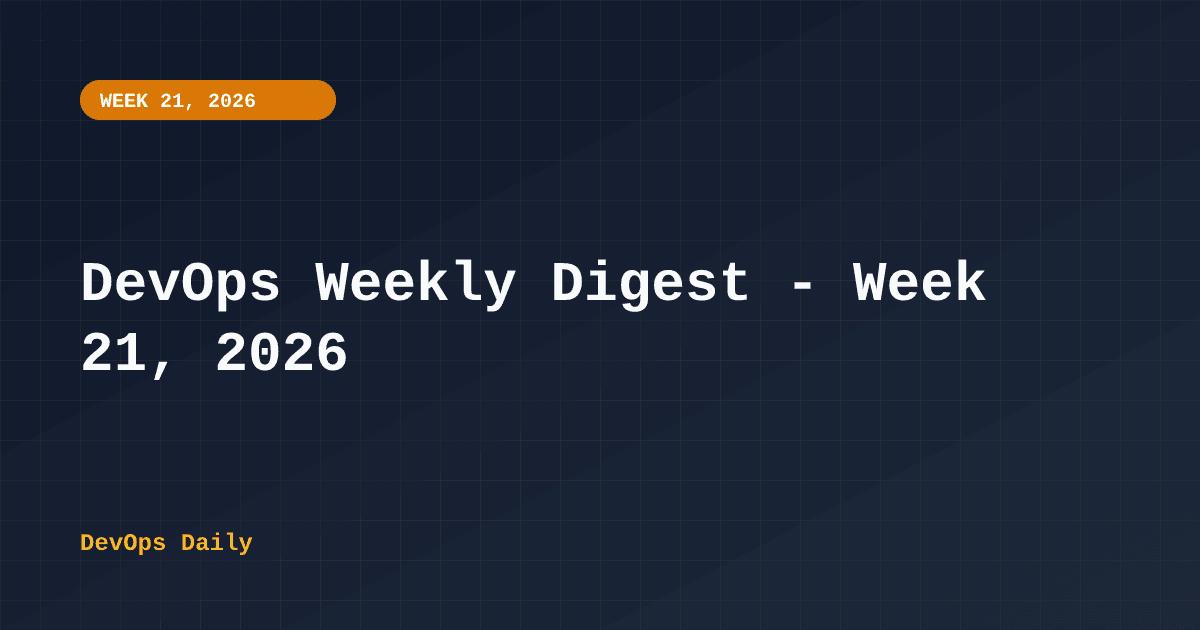
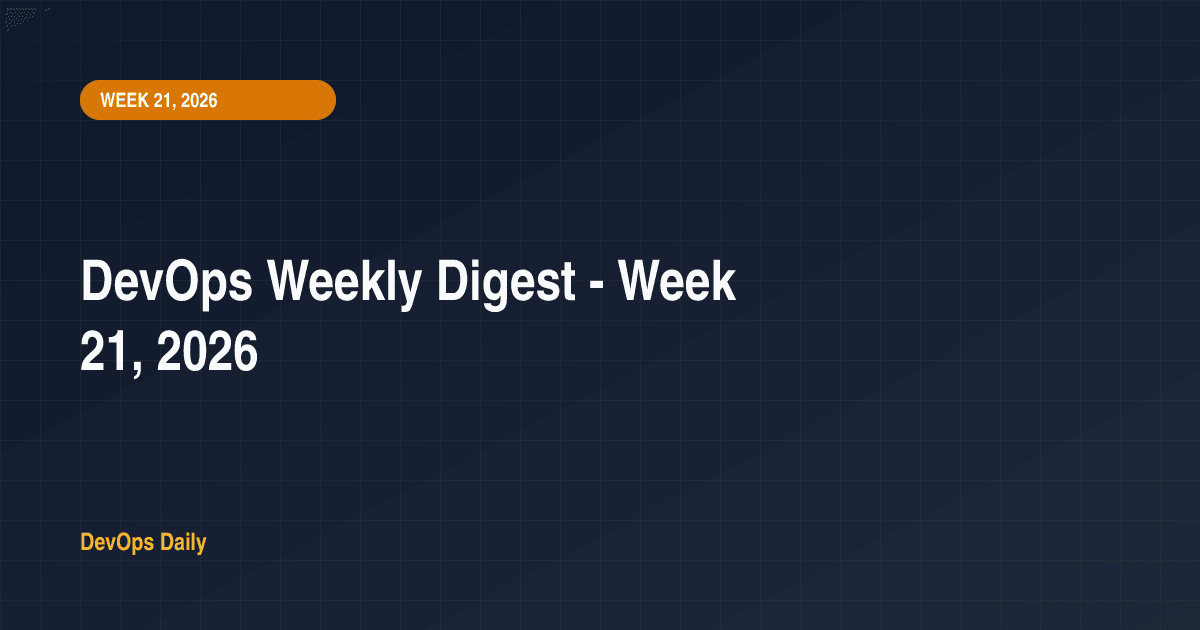
feat: add blog post - How to Build an Effective On-Call Rotation and Escalation Policy (#1297)

Pull request: feat: add blog post - How to Build an Effective On-Call Rotation and Escalation Policy
Auto-generated blog post for topic: **How to Build an Effective On-Call Rotation and Escalation Policy**

Category: Incident Management
Tags: incident-management, on-call, escalation, alert-fatigue

Created by content-pipeline.

diff --git a/content/posts/on-call-rotation-escalation-policy-guide.md b/content/posts/on-call-rotation-escalation-policy-guide.md
@@ -1,0 +1,295 @@
+---
+title: 'How to Build an Effective On-Call Rotation and Escalation Policy'
+excerpt: 'Your phone buzzed at 3:14 AM for a disk warning that auto-resolved by 3:16. Nobody fixes the alert. The next person on rotation hates their life. Here is how to build on-call schedules, escalation policies, and alert rules that respect your engineers.'
+category:
+  name: 'DevOps'
+  slug: 'devops'
+date: '2026-05-25'
+publishedAt: '2026-05-25T09:00:00Z'
+updatedAt: '2026-05-25T09:00:00Z'
+readingTime: '11 min read'
+author:
+  name: 'DevOps Daily Team'
+  slug: 'devops-daily-team'
+featured: false
+tags:
+  - incident-management
+  - on-call
+  - escalation
+  - alert-fatigue
+  - sre
+  - devops
+  - observability
+---
+
+Your phone buzzes at 3:14 AM. It is a `DiskUsageHigh` warning on a staging node. By the time you grab your laptop, it has auto-resolved. You go back to sleep, except now you are wide awake at 4 AM staring at the ceiling, knowing the next page might be a real incident. On Monday, you mention it in standup. Someone says "yeah, that one fires all the time." Nobody opens a ticket. Next week the next person on rotation gets the same page.
+
+This is how on-call rotations rot. Not from one bad incident, but from a slow leak of trust between engineers and the alerts they answer to. Building an on-call rotation that does not burn people out is a design problem, not a tooling problem. The tooling matters, but only after you decide what should wake a human up and what should not.
+
+## TLDR
+
+A good on-call rotation has three pieces: a schedule that is fair and predictable, an escalation policy that catches dropped pages without spamming everyone, and an alert pipeline that only pages humans for things humans can act on right now. Get all three right and on-call becomes tolerable. Get any one wrong and people will quit.
+
+## Prerequisites
+
+- An alerting backend like Alertmanager, PagerDuty, Opsgenie, or Grafana OnCall
+- Prometheus or another metrics source that fires alerts
+- A team of at least four engineers (anything smaller and you are running a hero rotation, which is a separate problem)
+- Buy-in from your manager that on-call work is real work, not a side task
+
+## Step 1: Design the Schedule Before You Pick the Tool
+
+Most teams jump straight into PagerDuty and start clicking. Stop. Decide the shape of the rotation first.
+
+The three common shapes:
+
+- **Weekly rotation**: one engineer carries the pager for 7 days. Simple, but brutal if your service is noisy. Good for low-volume rotations.
+- **Follow-the-sun**: hand off every 8 to 12 hours across timezones. Best if you have engineers in at least two regions. Nobody gets paged at 3 AM.
+- **Split primary/secondary**: a primary handles the page, a secondary backs them up if the primary misses it. Adds redundancy without doubling the load.
+
+For most teams between 5 and 15 engineers in one timezone, the right answer is a weekly rotation with a secondary on a separate, offset schedule. Here is what that looks like as Terraform with the PagerDuty provider:
+
+```hcl
+resource "pagerduty_schedule" "primary_oncall" {
+  name      = "Platform Primary On-Call"
+  time_zone = "Europe/London"
+
+  layer {
+    name                         = "Weekly Rotation"
+    start                        = "2026-06-01T09:00:00Z"
+    rotation_virtual_start       = "2026-06-01T09:00:00Z"
+    rotation_turn_length_seconds = 604800  # 7 days
+    users = [
+      pagerduty_user.alice.id,
+      pagerduty_user.bob.id,
+      pagerduty_user.carol.id,
+      pagerduty_user.dave.id,
+      pagerduty_user.eve.id,
+    ]
+  }
+}
+
+resource "pagerduty_schedule" "secondary_oncall" {
+  name      = "Platform Secondary On-Call"
+  time_zone = "Europe/London"
+
+  layer {
+    name                         = "Offset Weekly Rotation"
+    start                        = "2026-06-04T09:00:00Z"  # offset 3 days
+    rotation_virtual_start       = "2026-06-04T09:00:00Z"
+    rotation_turn_length_seconds = 604800
+    users = [
+      pagerduty_user.alice.id,
+      pagerduty_user.bob.id,
+      pagerduty_user.carol.id,
+      pagerduty_user.dave.id,
+      pagerduty_user.eve.id,
+    ]
+  }
+}
+```
+
+The 3-day offset means the same person is never primary and secondary at the same time. It also means everyone gets a clear "I am on" week and a separate "I am the backup" week.
+
+A few rules that prevent rotations from collapsing:
+
+- **Publish the schedule at least 8 weeks ahead.** People plan weddings, holidays, school pickups. Surprise shifts kill morale faster than the actual pages do.
+- **Let people swap shifts without asking permission.** Build a Slack channel, not a request queue. The only rule should be "find your own replacement before swapping."
+- **Pay for it, or give time off in lieu.** Unpaid on-call is theft. If you cannot pay, give the on-call engineer a half-day off after a busy week.
+
+## Step 2: Build an Escalation Policy That Actually Catches Drops
+
+A page that nobody answers is worse than no page at all, because the incident keeps burning while you have a false sense of "someone is on it." Your escalation policy is the safety net.
+
+The classic pattern: primary gets paged, has 5 minutes to acknowledge, then secondary, then a manager or incident commander.
+
+```text
++---------------------+
+|  Alert fires        |
++----------+----------+
+           |
+           v
++----------+----------+        +---------------------+
+| Primary on-call     | -----> | ACK within 5 min?   |
++----------+----------+        +----------+----------+
+                                          | No
+                                          v
+                              +-----------+-----------+
+                              | Secondary on-call     |
+                              +-----------+-----------+
+                                          |
+                                          | No ACK in 10 min
+                                          v
+                              +-----------+-----------+
+                              | Incident Commander    |
+                              | or Engineering Manager|
+                              +-----------------------+
+```
+
+Here is the same policy in Terraform:
+
+```hcl
+resource "pagerduty_escalation_policy" "platform" {
+  name      = "Platform Escalation"
+  num_loops = 2
+
+  rule {
+    escalation_delay_in_minutes = 5
+    target {
+      type = "schedule_reference"
+      id   = pagerduty_schedule.primary_oncall.id
+    }
+  }
+
+  rule {
+    escalation_delay_in_minutes = 10
+    target {
+      type = "schedule_reference"
+      id   = pagerduty_schedule.secondary_oncall.id
+    }
+  }
+
+  rule {
+    escalation_delay_in_minutes = 15
+    target {
+      type = "user_reference"
+      id   = pagerduty_user.engineering_manager.id
+    }
+  }
+}
+```
+
+Three things worth calling out:
+
+1. **5 minutes to acknowledge is the sweet spot.** Less than that and you escalate before someone has unlocked their phone. More than that and a real outage burns for too long before help arrives.
+2. **`num_loops = 2` means the policy retries.** If the manager also misses it, it goes back to the primary. Without this, a sleeping team can drop a page entirely.
+3. **The manager is a fallback, not the default.** If your manager is getting paged regularly, your team is too small or your alerts are too noisy. Probably both.
+
+## Step 3: Cut Alert Noise Ruthlessly
+
+This is where most on-call rotations live or die. The right number of pages per week per engineer is roughly **0 to 2**, and only one of those should happen outside business hours. If you are above that, you have a noise problem and no escalation policy will save you.
+
+The fix is severity tiers. Not every alert deserves a phone call.
+
+| Severity | Action               | Example                                              |
+|----------|----------------------|------------------------------------------------------|
+| `page`   | Wake someone up      | API error rate above 5% for 5 minutes                |
+| `ticket` | File a ticket        | Disk at 80%, certificate expires in 14 days          |
+| `info`   | Log only, no action  | Deploy started, cache warmed                         |
+
+Encode this in your Prometheus alert rules. Example:
+
+```yaml
+groups:
+- name: api-availability
+  interval: 30s
+  rules:
+  - alert: APIHighErrorRate
+    expr: |
+      (
+        sum(rate(http_requests_total{job="api",status=~"5.."}[5m]))
+        /
+        sum(rate(http_requests_total{job="api"}[5m]))
+      ) > 0.05
+    for: 5m
+    labels:
+      severity: page
+      team: platform
+    annotations:
+      summary: "API 5xx error rate above 5% for 5 minutes"
+      runbook: "https://runbooks.example.com/api-high-error-rate"
+      dashboard: "https://grafana.example.com/d/api-overview"
+
+  - alert: DiskSpaceWarning
+    expr: |
+      (1 - (node_filesystem_avail_bytes{mountpoint="/"} / node_filesystem_size_bytes{mountpoint="/"})) > 0.80
+    for: 30m
+    labels:
+      severity: ticket
+      team: platform
+    annotations:
+      summary: "Disk usage above 80% on {{ $labels.instance }}"
+      runbook: "https://runbooks.example.com/disk-space"
+```
+
+Then route on severity in Alertmanager. `page` goes to PagerDuty, `ticket` opens a Jira issue, `info` posts to a Slack channel nobody is required to read:
+
+```yaml
+route:
+  receiver: slack-info
+  group_by: ['alertname', 'cluster']
+  routes:
+  - matchers:
+    - severity="page"
+    receiver: pagerduty-platform
+    group_wait: 30s
+    group_interval: 5m
+    repeat_interval: 4h
+
+  - matchers:
+    - severity="ticket"
+    receiver: jira-platform
+    group_wait: 5m
+
+  - matchers:
+    - severity="info"
+    receiver: slack-info
+
+receivers:
+- name: pagerduty-platform
+  pagerduty_configs:
+  - service_key: <REDACTED>
+    description: '{{ .CommonAnnotations.summary }}'
+    details:
+      runbook: '{{ .CommonAnnotations.runbook }}'
+      dashboard: '{{ .CommonAnnotations.dashboard }}'
+
+- name: jira-platform
+  webhook_configs:
+  - url: 'https://jira-bot.example.com/create'
+
+- name: slack-info
+  slack_configs:
+  - api_url: 'https://hooks.slack.com/services/...'
+    channel: '#alerts-info'
+```
+
+Two non-negotiable rules for any rule labelled `severity: page`:
+
+1. **It must link to a runbook.** Not a wiki home page. A document with the actual commands to run. If you cannot write a runbook, the alert is not actionable enough to page on.
+2. **It must include a `for:` clause of at least 2 minutes.** This prevents flapping. The disk that fills to 81% for 30 seconds because of a log rotation should not wake you.
+
+## Step 4: Review Pages Every Week
+
+The cheapest reliability work you can do is a weekly on-call review. 30 minutes, every Monday, with the off-going engineer talking through every page they got.
+
+A simple template:
+
+```text
+On-Call Handover: 2026-05-18 to 2026-05-25
+Engineer: Alice
+
+Pages received: 4
+  - Mon 02:14  APIHighErrorRate         REAL    fixed by rolling deploy
+  - Tue 09:02  DiskSpaceWarning         NOISE   threshold too low, raised to 90%
+  - Wed 04:33  PodCrashLoopBackOff      REAL    OOMKilled, increased memory limit
+  - Sat 23:48  CertExpiryWarning        NOISE   renewal cron already running, ack window too short
+
+Action items:
+  1. Raise DiskSpaceWarning to 90% and move to severity=ticket (Alice, this week)
+  2. Increase ack window on CertExpiryWarning from 5m to 30m (Bob, this week)
+  3. Document OOM debug runbook (Carol, by next handover)
+```
+
+If an alert shows up as `NOISE` two weeks in a row, it gets fixed or it gets deleted. No exceptions. This is the single most important habit. Without it, your alert rules accumulate noise the same way a closet accumulates clothes you never wear.
+
+## What You Should Do This Week
+
+You probably will not redesign your entire on-call setup tomorrow. Pick one of these and do it before Friday:
+
+1. **Pull last month of pages from PagerDuty.** Count how many were real vs noise. If the noise ratio is over 30%, your team is being trained to ignore the pager.
+2. **Add a `runbook` annotation to your top 5 noisiest alerts.** Even a one-paragraph "if you see this, check X and Y" is enough to start.
+3. **Add a secondary on-call schedule** if you do not have one. Even if it is the same five people, the escalation safety net is worth it.
+4. **Schedule a 30-minute weekly handover meeting.** Block it on the calendar as recurring. Make it dead simple to attend, even from a phone in a coffee shop.
+
+On-call will never be fun. But it should not be the reason your best engineers polish their CVs. Treat it like a system that needs maintenance, not a tax you collect from junior engineers, and your retention numbers will thank you.